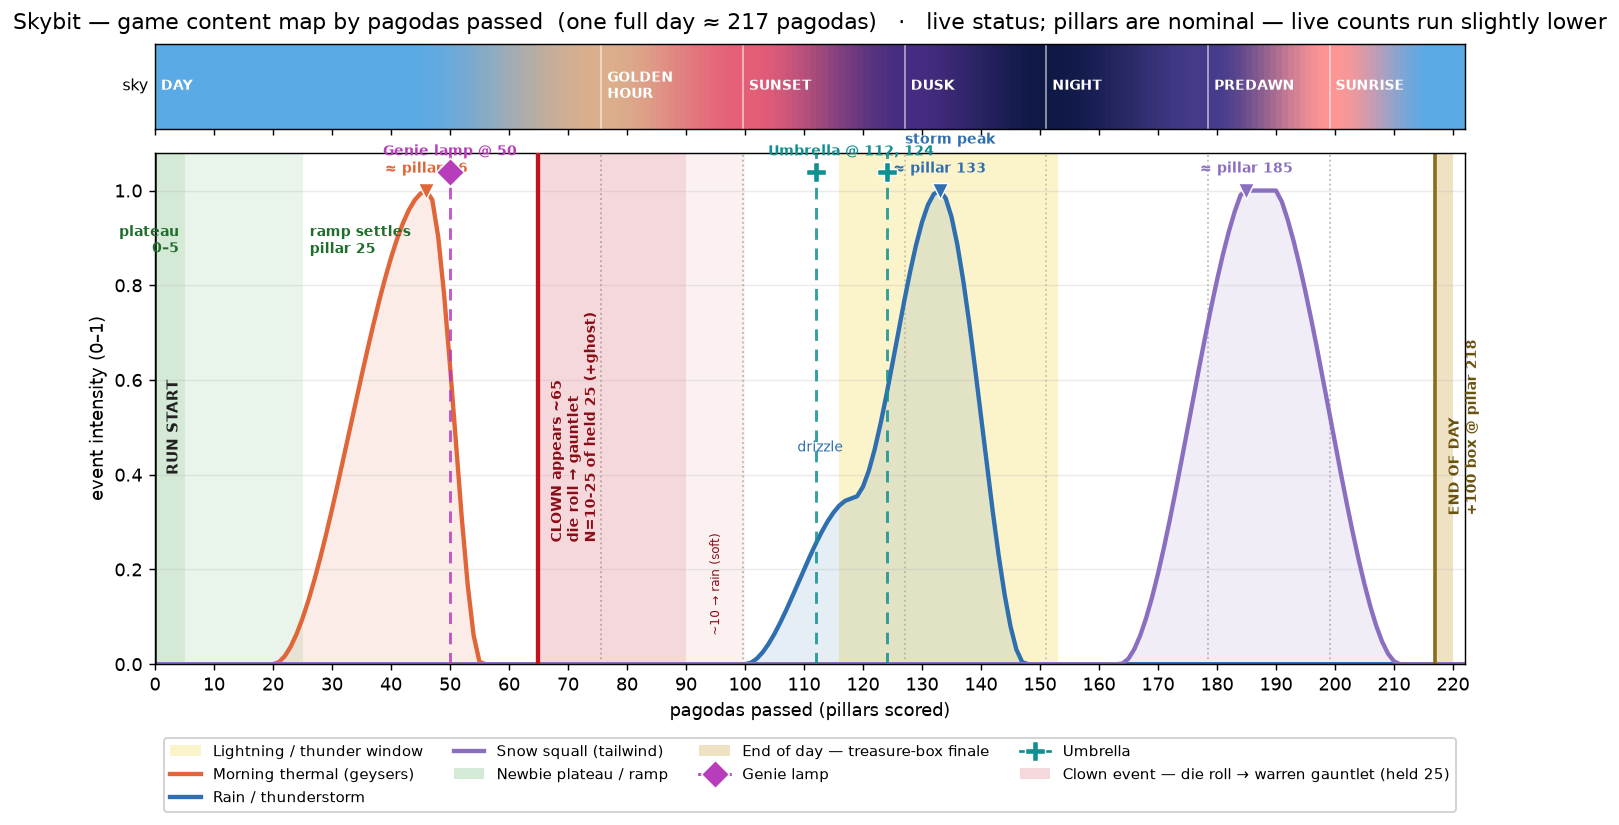
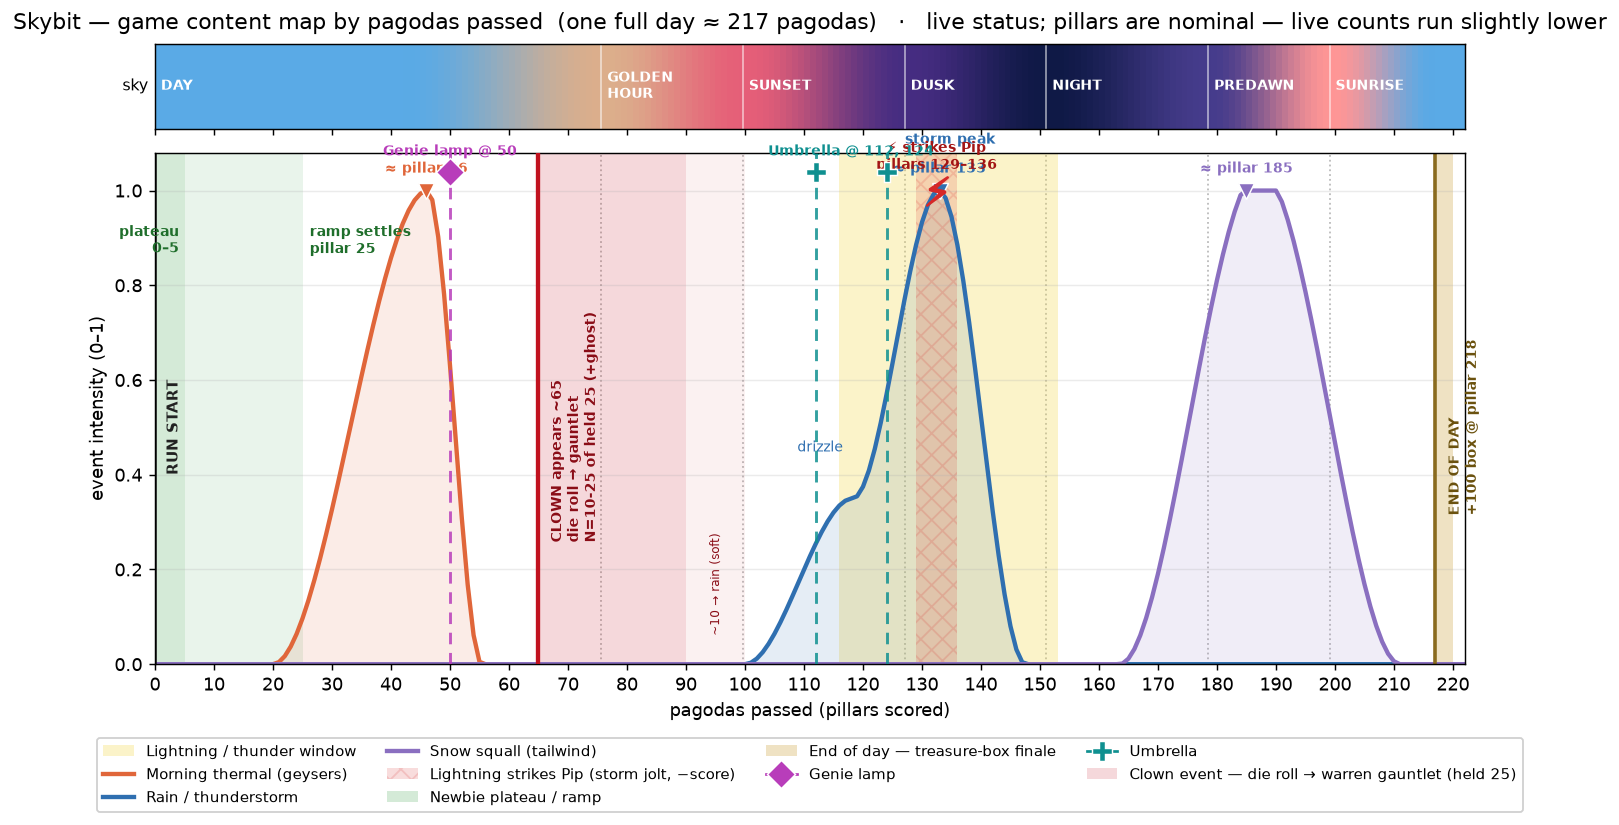
Mark the storm-jolt lightning strike on Pip in the event map
Add a strike-zone marker to the pagoda event map for the storm jolt — the
bolt that actually hits Pip and docks score, distinct from the cosmetic
flash window already shown. The jolt arms only where rain intensity is at
or above its near-peak threshold, so it's drawn as a hatched band over that
zone (pillars 129-136) with a lightning marker at the centre; the exact
strike pillar within the band is random.

Promote the previously hard-coded 0.85 arming threshold to a named
STORM_JOLT_RAIN_MIN constant so the game trigger and the graph stay in sync.

Claude-Session: https://claude.ai/code/session_01R8Xv9wnQCdkf5ozFZzZReZ

Changed region(s): [[0.0618, 0.8788, 0.9265, 0.9697], [0.5559, 0.1515, 0.6177, 0.8182]]

diff --git a/tools/plot_event_pagoda_map.py b/tools/plot_event_pagoda_map.py
@@ -139,6 +139,25 @@ def main() -> None:
                 textcoords="offset points", xytext=(6, 26),
                 ha="center", fontsize=7.5, color="#2f6fb0", fontweight="bold")
 
+    # ── storm-jolt strike zone — the bolt that actually HITS Pip and docks
+    # score (distinct from the cosmetic flash window above). Armed only where
+    # rain ≥ STORM_JOLT_RAIN_MIN, so the strike can land anywhere in this band;
+    # the exact pillar is random. Marked at the band centre. ─────────────────
+    jolt = [pillars[i] for i in range(len(pillars))
+            if weather.rain_intensity(phases[i]) >= config.STORM_JOLT_RAIN_MIN]
+    if jolt:
+        jlo, jhi = min(jolt), max(jolt)
+        ax.axvspan(jlo, jhi, facecolor="#d62828", alpha=0.16, linewidth=0,
+                   hatch="xx", edgecolor="#d62828",
+                   label="Lightning strikes Pip (storm jolt, −score)")
+        jmid = (jlo + jhi) / 2
+        ax.plot([jmid], [1.0], marker=r"$⚡$", color="#d62828",
+                markersize=16, zorder=7, clip_on=False)
+        ax.annotate(f"⚡ strikes Pip\npillars {jlo}–{jhi}", (jmid, 1.0),
+                    textcoords="offset points", xytext=(0, 12), ha="center",
+                    fontsize=7.5, color="#a31515", fontweight="bold",
+                    clip_on=False)
+
     # ── newbie onboarding band — plateau then ramp, in pillars ───────────────
     ax.axvspan(0, config.PLATEAU_PIPES, color="#3ca34d", alpha=0.22,
                linewidth=0, label="Newbie plateau / ramp", zorder=0)
@@ -253,6 +272,11 @@ def main() -> None:
     print(f"  Clown event: held slot {config.CLOWN_START_PILLAR}"
           f"–{config.CLOWN_START_PILLAR + config.CLOWN_SLOT_PILLARS}, "
           f"then {config.CLOWN_TO_RAIN_BUFFER} regular → rain")
+    _jolt = [pillars[i] for i in range(len(pillars))
+             if weather.rain_intensity(phases[i]) >= config.STORM_JOLT_RAIN_MIN]
+    if _jolt:
+        print(f"  Lightning strikes Pip (storm jolt): pillars {min(_jolt)}"
+              f"–{max(_jolt)} (rain ≥ {config.STORM_JOLT_RAIN_MIN})")
 
 
 if __name__ == "__main__":

diff --git a/game/world.py b/game/world.py
@@ -45,6 +45,7 @@ from game.config import (
     CYCLE_FINALE_PHASE_HI, CYCLE_FINALE_PHASE_LO,
     WEATHER_HEAVY_THRESHOLD, WEATHER_COIN_SHAKE_AMP, WEATHER_PIP_SHIVER_AMP,
     WEATHER_FLAP_DAMPEN_MAX, WEATHER_WIND_LEAN_AMP, WEATHER_WIND_SCROLL_FACTOR,
+    STORM_JOLT_RAIN_MIN,
     THERMAL_SPAWN_THRESHOLD, THERMAL_SPAWN_CHANCE_MAX,
     GEYSER_MAX_CONCURRENT,
     ROCK_SPAWN_THRESHOLD, ROCK_PER_PILLAR_MAX, ROCK_RING_COUNT,
@@ -511,7 +512,7 @@ class World:
         # to lose. Kicks off a ~4.4 s buildup of telegraph bolts → the strike.
         if self._storm_jolt_lockout > 0:
             self._storm_jolt_lockout = max(0.0, self._storm_jolt_lockout - dt)
-        elif (ri > 0.85
+        elif (ri > STORM_JOLT_RAIN_MIN
               and self.score > 0
               and not self.game_over
               and self.ready_t <= 0

diff --git a/game/config.py b/game/config.py
@@ -336,6 +336,12 @@ WEATHER_COIN_SHAKE_AMP   = 4.0
 WEATHER_PIP_SHIVER_AMP   = 1.5
 WEATHER_FLAP_DAMPEN_MAX  = 0.18
 
+# Storm jolt: the bolt that actually STRIKES Pip and docks score (distinct
+# from the cosmetic background flashes). Only armed once rain intensity is at
+# or above this near-peak level, so the strike can only land in the heart of
+# the downpour — the exact pillar within that window is random.
+STORM_JOLT_RAIN_MIN      = 0.85
+
 # Tailwind event (predawn, phase ~0.85). Two effects scaled by
 # weather.wind_intensity(phase):
 #   - WEATHER_WIND_LEAN_AMP: max RIGHTWARD visual x-offset on
